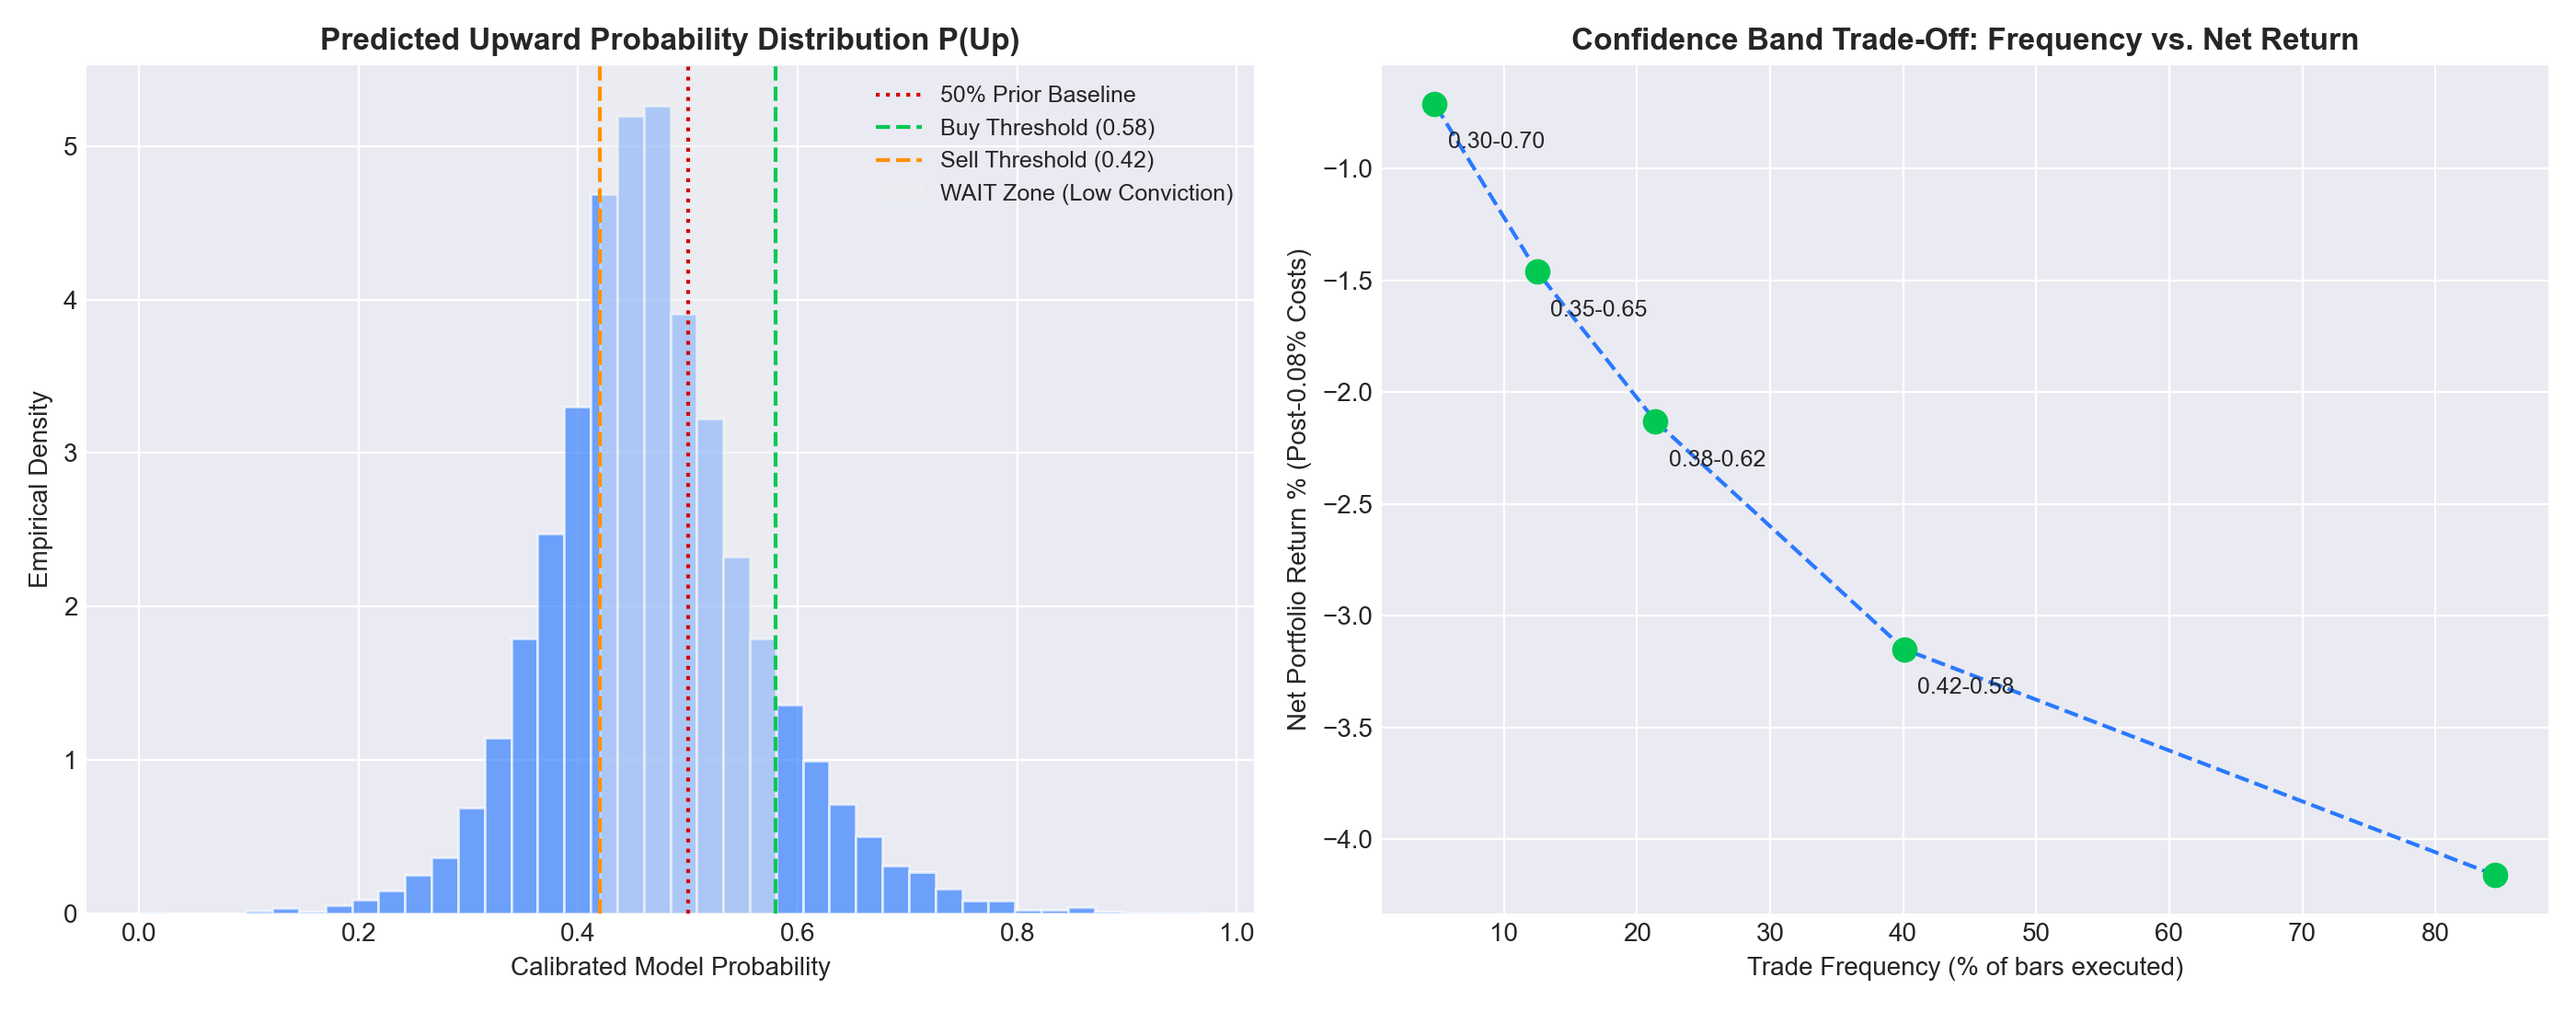
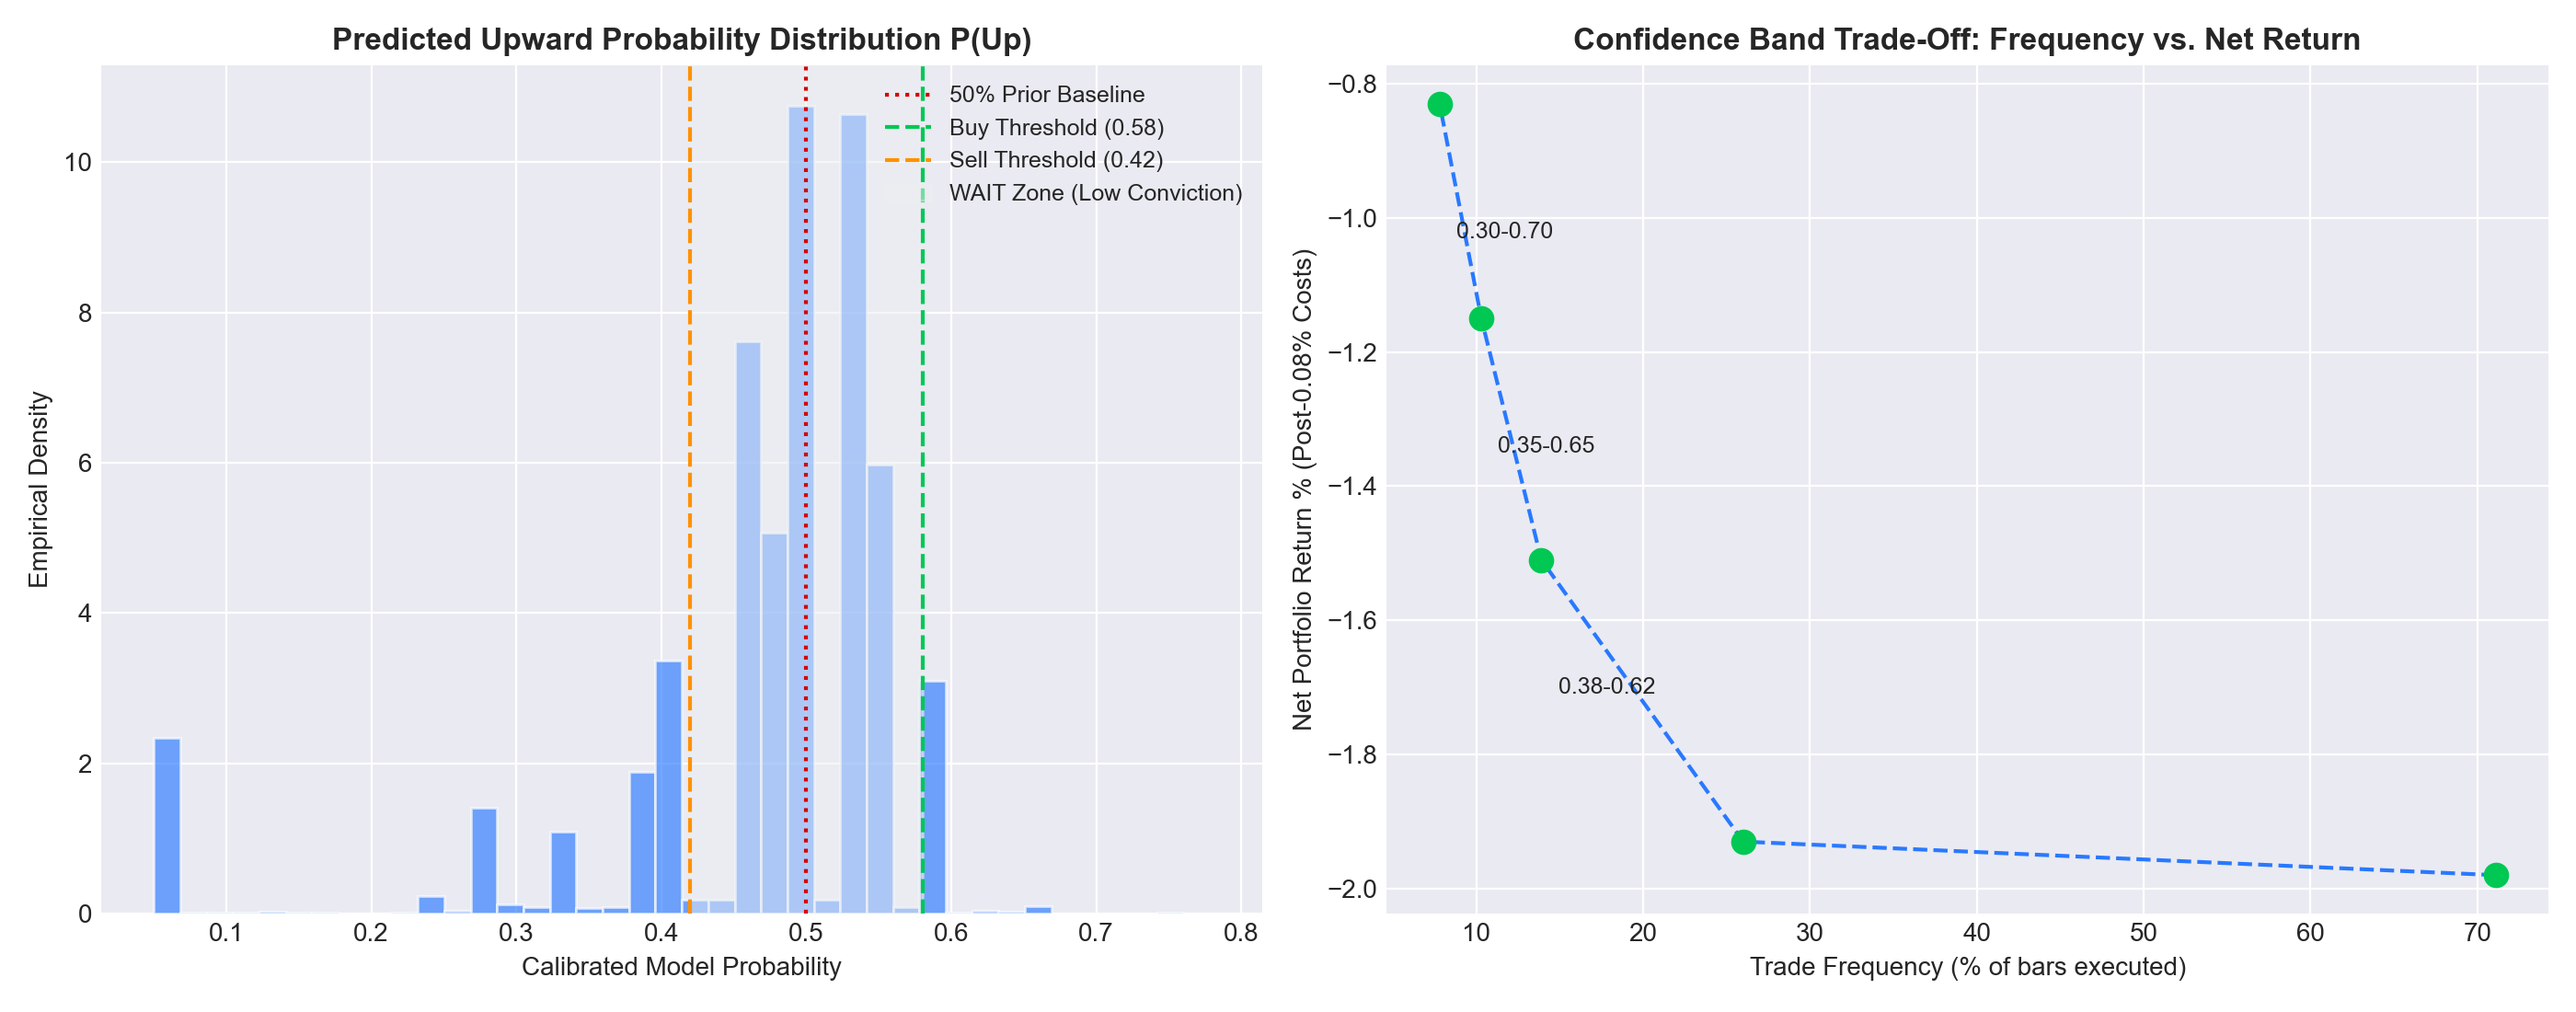
feat(ml): revert to single-tree HAT, re-isolate features, add Platt recalibration, and verify LSTM baseline

diff --git a/intelligence/online_learner.py b/intelligence/online_learner.py
@@ -5,12 +5,14 @@ Continuously updates split statistics per-sample without requiring full batch re
 """
 
 import os
+import math
 import pickle
 import threading
 from datetime import datetime, timezone
 from typing import Dict, Any, Optional, Tuple
+import numpy as np
 
-from river import forest, preprocessing, drift, metrics
+from river import tree, forest, preprocessing, drift, metrics
 from config import BASE_DIR
 from data.feature_store import FeatureStore
 
@@ -22,8 +24,9 @@ class OnlineLearner:
     """
     Incremental ML classifier for continuous 15-minute directional market prediction.
     Features:
-    - Incremental Adaptive Random Forest (ARF) ensemble robust to non-stationary streams
+    - Incremental Hoeffding Adaptive Tree (HAT) or Adaptive Random Forest (ARF)
     - Online standard scaling of incoming numerical features
+    - Probability recalibration (Platt scaling / Isotonic regression) on held-out validation fold
     - ADWIN (Adaptive Windowing) concept drift detection on classification error
     - Real-time calibration tracking via Brier Score and Rolling Accuracy
     - Auditable model checkpointing
@@ -35,6 +38,8 @@ class OnlineLearner:
         feature_store: Optional[FeatureStore] = None,
         grace_period: int = 50,
         adwin_delta: float = 0.002,
+        model_type: Optional[str] = None,
+        calibration: Optional[str] = None,
         n_models: int = 10,
     ):
         self.model_path = model_path
@@ -43,19 +48,45 @@ class OnlineLearner:
         self.adwin_delta = adwin_delta
         self.n_models = n_models
 
+        # Architecture & calibration configuration
+        env_model = os.environ.get("ARGUS_MODEL_TYPE", "HAT").upper()
+        self.model_type = (model_type or env_model).upper()
+
+        env_calib = os.environ.get("ARGUS_CALIBRATION", "none").lower()
+        self.calibration_mode = (calibration or env_calib).lower()
+
         self._lock = threading.Lock()
         os.makedirs(os.path.dirname(self.model_path), exist_ok=True)
 
-        # Pipeline: Online Scaler -> Adaptive Random Forest Classifier (Naive Bayes Adaptive leaves)
-        self.pipeline = preprocessing.StandardScaler() | forest.ARFClassifier(
-            n_models=self.n_models,
-            grace_period=self.grace_period,
-            split_criterion="gini",
-            delta=1e-5,
-            tau=0.05,
-            leaf_prediction="nba",  # Naive Bayes Adaptive for discriminating probabilities
-            seed=42,
-        )
+        # Pipeline: Online Scaler -> Classifier
+        if self.model_type == "ARF":
+            classifier = forest.ARFClassifier(
+                n_models=self.n_models,
+                grace_period=self.grace_period,
+                split_criterion="gini",
+                delta=1e-5,
+                tau=0.05,
+                leaf_prediction="nba",
+                seed=42,
+            )
+            self.model_name = "ARFClassifier"
+        else:
+            classifier = tree.HoeffdingAdaptiveTreeClassifier(
+                grace_period=self.grace_period,
+                split_criterion="gini",
+                delta=1e-5,
+                tau=0.05,
+                leaf_prediction="nba",
+            )
+            self.model_name = "HoeffdingAdaptiveTreeClassifier"
+
+        self.pipeline = preprocessing.StandardScaler() | classifier
+
+        # Calibration state (held-out validation fold)
+        self.calibrator = None
+        self.is_calibrated = False
+        self.val_fold = []
+        self.calib_fold_size = int(os.environ.get("ARGUS_CALIB_FOLD_SIZE", "50"))
 
         # ADWIN drift monitor on absolute prediction error
         self.drift_detector = drift.ADWIN(delta=self.adwin_delta)
@@ -72,6 +103,37 @@ class OnlineLearner:
         self._load_checkpoint()
 
     # ── Inference ─────────────────────────────────────────────────────────────
+
+    def fit_calibrator(self):
+        """Fit Platt scaling or Isotonic regression on held-out validation fold."""
+        if len(self.val_fold) < 10:
+            return
+
+        targets = [y for _, y in self.val_fold]
+        if len(set(targets)) < 2:
+            return
+
+        probs = [p for p, _ in self.val_fold]
+
+        if self.calibration_mode == "platt":
+            from sklearn.linear_model import LogisticRegression
+
+            def to_logit(p):
+                p_c = max(1e-5, min(1.0 - 1e-5, p))
+                return math.log(p_c / (1.0 - p_c))
+
+            X = np.array([[to_logit(p)] for p in probs])
+            y = np.array(targets)
+            clf = LogisticRegression(C=1.0, solver="lbfgs")
+            clf.fit(X, y)
+            self.calibrator = clf
+            self.is_calibrated = True
+        elif self.calibration_mode == "isotonic":
+            from sklearn.isotonic import IsotonicRegression
+            iso = IsotonicRegression(out_of_bounds="clip", y_min=0.05, y_max=0.95)
+            iso.fit(probs, targets)
+            self.calibrator = iso
+            self.is_calibrated = True
 
     def predict_proba(self, features: Dict[str, Any]) -> Dict[int, float]:
         """
@@ -95,6 +157,17 @@ class OnlineLearner:
                 p_up = 0.5
                 p_down = 0.5
 
+            if self.is_calibrated and self.calibrator is not None:
+                if self.calibration_mode == "platt":
+                    p_c = max(1e-5, min(1.0 - 1e-5, p_up))
+                    logit_p = math.log(p_c / (1.0 - p_c))
+                    cal_p = float(self.calibrator.predict_proba([[logit_p]])[0, 1])
+                    p_up = max(0.0001, min(0.9999, cal_p))
+                elif self.calibration_mode == "isotonic":
+                    cal_p = float(self.calibrator.predict([p_up])[0])
+                    p_up = max(0.0001, min(0.9999, cal_p))
+                p_down = 1.0 - p_up
+
             return {0: round(float(p_down), 4), 1: round(float(p_up), 4)}
 
     def predict_up_probability(self, features: Dict[str, Any]) -> float:
@@ -114,9 +187,10 @@ class OnlineLearner:
         """
         Per-sample incremental update:
         1. Evaluates pre-update prediction error for ADWIN drift detection
-        2. Calls learn_one() on the River pipeline
-        3. Updates running Accuracy and Brier metrics
-        4. Logs drift events to the feature store if detected
+        2. Collects validation fold predictions for calibration if enabled
+        3. Calls learn_one() on the River pipeline
+        4. Updates running Accuracy and Brier metrics
+        5. Logs drift events to the feature store if detected
 
         Returns summary of post-update metrics.
         """
@@ -130,8 +204,25 @@ class OnlineLearner:
             # 1. Pre-update prediction for honest online error tracking
             pre_proba = self.pipeline.predict_proba_one(clean_feats)
             p_up = pre_proba.get(1, 0.5)
-            pred_class = 1 if p_up >= 0.5 else 0
-            error = abs(target - p_up)
+
+            # Collect held-out validation samples for calibration
+            if self.calibration_mode in ("platt", "isotonic") and not self.is_calibrated:
+                self.val_fold.append((p_up, target))
+                if len(self.val_fold) >= self.calib_fold_size:
+                    self.fit_calibrator()
+
+            # If calibrated, compute calibrated probability for metrics
+            eval_p_up = p_up
+            if self.is_calibrated and self.calibrator is not None:
+                if self.calibration_mode == "platt":
+                    p_c = max(1e-5, min(1.0 - 1e-5, p_up))
+                    logit_p = math.log(p_c / (1.0 - p_c))
+                    eval_p_up = float(self.calibrator.predict_proba([[logit_p]])[0, 1])
+                elif self.calibration_mode == "isotonic":
+                    eval_p_up = float(self.calibrator.predict([p_up])[0])
+
+            pred_class = 1 if eval_p_up >= 0.5 else 0
+            error = abs(target - eval_p_up)
 
             # 2. Update model
             self.pipeline.learn_one(clean_feats, target)
@@ -139,7 +230,7 @@ class OnlineLearner:
 
             # 3. Update evaluation metrics
             self.accuracy_metric.update(target, pred_class)
-            self.brier_metric.update(target, p_up)
+            self.brier_metric.update(target, eval_p_up)
 
             # 4. Update ADWIN concept drift detector
             val_before = self.drift_detector.estimation
@@ -190,6 +281,8 @@ class OnlineLearner:
                 "samples_seen": self.samples_seen,
                 "drift_count": self.drift_count,
                 "last_drift_timestamp": self.last_drift_timestamp,
+                "calibrator": self.calibrator,
+                "is_calibrated": self.is_calibrated,
             }
             with open(self.model_path, "wb") as f:
                 pickle.dump(state, f)
@@ -209,18 +302,22 @@ class OnlineLearner:
                     self.samples_seen = state.get("samples_seen", 0)
                     self.drift_count = state.get("drift_count", 0)
                     self.last_drift_timestamp = state.get("last_drift_timestamp", None)
+                    self.calibrator = state.get("calibrator", self.calibrator)
+                    self.is_calibrated = state.get("is_calibrated", self.is_calibrated)
             except Exception:
                 pass
 
     def get_status(self) -> Dict[str, Any]:
         """Return diagnostic health and performance telemetry."""
         with self._lock:
+            calib_suffix = f" + {self.calibration_mode.capitalize()} Calibration" if self.is_calibrated else ""
             return {
-                "model_type": "River ARFClassifier (Adaptive Random Forest) + StandardScaler",
+                "model_type": f"River {self.model_name} + StandardScaler{calib_suffix}",
                 "samples_seen": self.samples_seen,
                 "accuracy": round(float(self.accuracy_metric.get()), 4) if self.samples_seen > 0 else 0.5,
                 "brier_score": round(float(self.brier_metric.get()), 4) if self.samples_seen > 0 else 0.25,
                 "drift_count": self.drift_count,
                 "last_drift_timestamp": self.last_drift_timestamp,
                 "checkpoint_path": self.model_path,
+                "is_calibrated": self.is_calibrated,
             }

diff --git a/intelligence/features.py b/intelligence/features.py
@@ -8,6 +8,7 @@ Enforces strict time-based leakage prevention:
 - Sentiment is queried strictly with timestamp <= asof_timestamp
 """
 
+import os
 import math
 from datetime import datetime, timezone
 from typing import Dict, Any, Optional, Tuple, List
@@ -16,6 +17,8 @@ import pandas as pd
 
 from data.feature_store import FeatureStore
 from data.multi_timeframe import fetch_daily_context
+
+FEATURE_STAGE = int(os.environ.get("ARGUS_FEATURE_STAGE", "4"))
 
 TICKER_SECTORS = {
     "RELIANCE.NS": "ENERGY",
@@ -348,7 +351,7 @@ def calculate_numeric_features(
 
     resolved_sector = sector or TICKER_SECTORS.get(ticker.upper(), TICKER_SECTORS.get(ticker.upper().replace(".NS", ""), None))
 
-    if feature_store is not None:
+    if FEATURE_STAGE >= 4 and feature_store is not None:
         raw_sent = feature_store.get_latest_sentiment(
             ticker=ticker, sector=resolved_sector, asof_time=features_asof
         )
@@ -376,17 +379,6 @@ def calculate_numeric_features(
         "ret_3": round(ret_3, 6),
         "ret_5": round(ret_5, 6),
         "ret_15": round(ret_15, 6),
-        "ret_open_to_now": round(ret_open_to_now, 6),
-        "ret_session_open_bar": round(ret_session_open_bar, 6),
-        "ret_session_high": round(ret_session_high, 6),
-        "ret_session_low": round(ret_session_low, 6),
-        "rel_nifty_ret_1": round(rel_nifty_ret_1, 6),
-        "rel_nifty_ret_3": round(rel_nifty_ret_3, 6),
-        "rel_nifty_ret_5": round(rel_nifty_ret_5, 6),
-        "rel_nifty_ret_15": round(rel_nifty_ret_15, 6),
-        "rel_sector_ret_1": round(rel_sector_ret_1, 6),
-        "rel_sector_ret_5": round(rel_sector_ret_5, 6),
-        "nifty_divergence_flag": round(nifty_divergence_flag, 4),
         "norm_atr": round(norm_atr, 6),
         "rolling_std_10": round(rolling_std_10, 6),
         "body_pct": round(body_pct, 4),
@@ -415,6 +407,25 @@ def calculate_numeric_features(
         "effective_sentiment": round(effective_sentiment, 4),
     }
 
+    if FEATURE_STAGE >= 2:
+        features.update({
+            "rel_nifty_ret_1": round(rel_nifty_ret_1, 6),
+            "rel_nifty_ret_3": round(rel_nifty_ret_3, 6),
+            "rel_nifty_ret_5": round(rel_nifty_ret_5, 6),
+            "rel_nifty_ret_15": round(rel_nifty_ret_15, 6),
+            "rel_sector_ret_1": round(rel_sector_ret_1, 6),
+            "rel_sector_ret_5": round(rel_sector_ret_5, 6),
+            "nifty_divergence_flag": round(nifty_divergence_flag, 4),
+        })
+
+    if FEATURE_STAGE >= 3:
+        features.update({
+            "ret_open_to_now": round(ret_open_to_now, 6),
+            "ret_session_open_bar": round(ret_session_open_bar, 6),
+            "ret_session_high": round(ret_session_high, 6),
+            "ret_session_low": round(ret_session_low, 6),
+        })
+
     # ── 8. Slow / Daily-Context Features (Multi-Timeframe Layer) ──────────────
     # Strictly enforced point-in-time leakage guard:
     # Uses completed daily candles strictly prior to the current trading date (date < T.date).
@@ -433,16 +444,10 @@ def calculate_numeric_features(
 # AUDITABLE FEATURE ARCHITECTURE: FAST INTRADAY (15m) + SLOW DAILY-CONTEXT
 # ==============================================================================
 
-# ── Fast / Intraday Features (Recomputed on each 15-minute candle bar) ────────
-FAST_INTRADAY_FEATURES = [
+# ── Base Intraday Features (Stage 1 Clean Baseline) ───────────────────────────
+BASE_INTRADAY_FEATURES = [
     # Multi-lag log returns (on 15m candles: 15m, 45m, 75m, 225m momentum)
     "ret_1", "ret_3", "ret_5", "ret_15",
-    # Multi-feature intraday session returns (open-to-now, session-relative, running extremes)
-    "ret_open_to_now", "ret_session_open_bar", "ret_session_high", "ret_session_low",
-    # Cross-sectional / Relative market & sector features
-    "rel_nifty_ret_1", "rel_nifty_ret_3", "rel_nifty_ret_5", "rel_nifty_ret_15",
-    "rel_sector_ret_1", "rel_sector_ret_5",
-    "nifty_divergence_flag",
     # Volatility & candle geometry
     "norm_atr", "rolling_std_10", "body_pct", "upper_wick_pct", "lower_wick_pct",
     # Oscillators
@@ -458,6 +463,25 @@ FAST_INTRADAY_FEATURES = [
     # Point-in-time news sentiment
     "sentiment_score", "sentiment_delta", "effective_sentiment",
 ]
+
+# ── Cross-Sectional Features (Stage 2) ─────────────────────────────────────────
+CROSS_SECTIONAL_FEATURES = [
+    "rel_nifty_ret_1", "rel_nifty_ret_3", "rel_nifty_ret_5", "rel_nifty_ret_15",
+    "rel_sector_ret_1", "rel_sector_ret_5",
+    "nifty_divergence_flag",
+]
+
+# ── Session-Relative Return Features (Stage 3) ─────────────────────────────────
+SESSION_RETURN_FEATURES = [
+    "ret_open_to_now", "ret_session_open_bar", "ret_session_high", "ret_session_low",
+]
+
+if FEATURE_STAGE == 1:
+    FAST_INTRADAY_FEATURES = list(BASE_INTRADAY_FEATURES)
+elif FEATURE_STAGE == 2:
+    FAST_INTRADAY_FEATURES = list(BASE_INTRADAY_FEATURES) + list(CROSS_SECTIONAL_FEATURES)
+else:
+    FAST_INTRADAY_FEATURES = list(BASE_INTRADAY_FEATURES) + list(CROSS_SECTIONAL_FEATURES) + list(SESSION_RETURN_FEATURES)
 
 # ── Slow / Daily-Context Features (Computed once daily, held constant intraday) ─
 SLOW_DAILY_FEATURES = [

diff --git a/api/main.py b/api/main.py
@@ -155,7 +155,7 @@ def get_health() -> Dict[str, Any]:
             "jobs": [j.name for j in app.state.news_scheduler.get_jobs()] if scheduler_running else [],
         },
         "online_learner": {
-            "model_type": "ARFClassifier",
+            "model_type": getattr(app.state.online_learner, "model_name", "HoeffdingAdaptiveTreeClassifier"),
             "samples_seen": app.state.online_learner.samples_seen,
             "drifts_detected": app.state.online_learner.drift_count,
         },

diff --git a/tests/test_api.py b/tests/test_api.py
@@ -34,7 +34,7 @@ def test_api_health_check(client):
     assert data["database"]["reachable"] is True
     assert "scheduler" in data
     assert "online_learner" in data
-    assert data["online_learner"]["model_type"] == "ARFClassifier"
+    assert data["online_learner"]["model_type"] in ["HoeffdingAdaptiveTreeClassifier", "ARFClassifier"]
     assert "telemetry" in data
 
 
